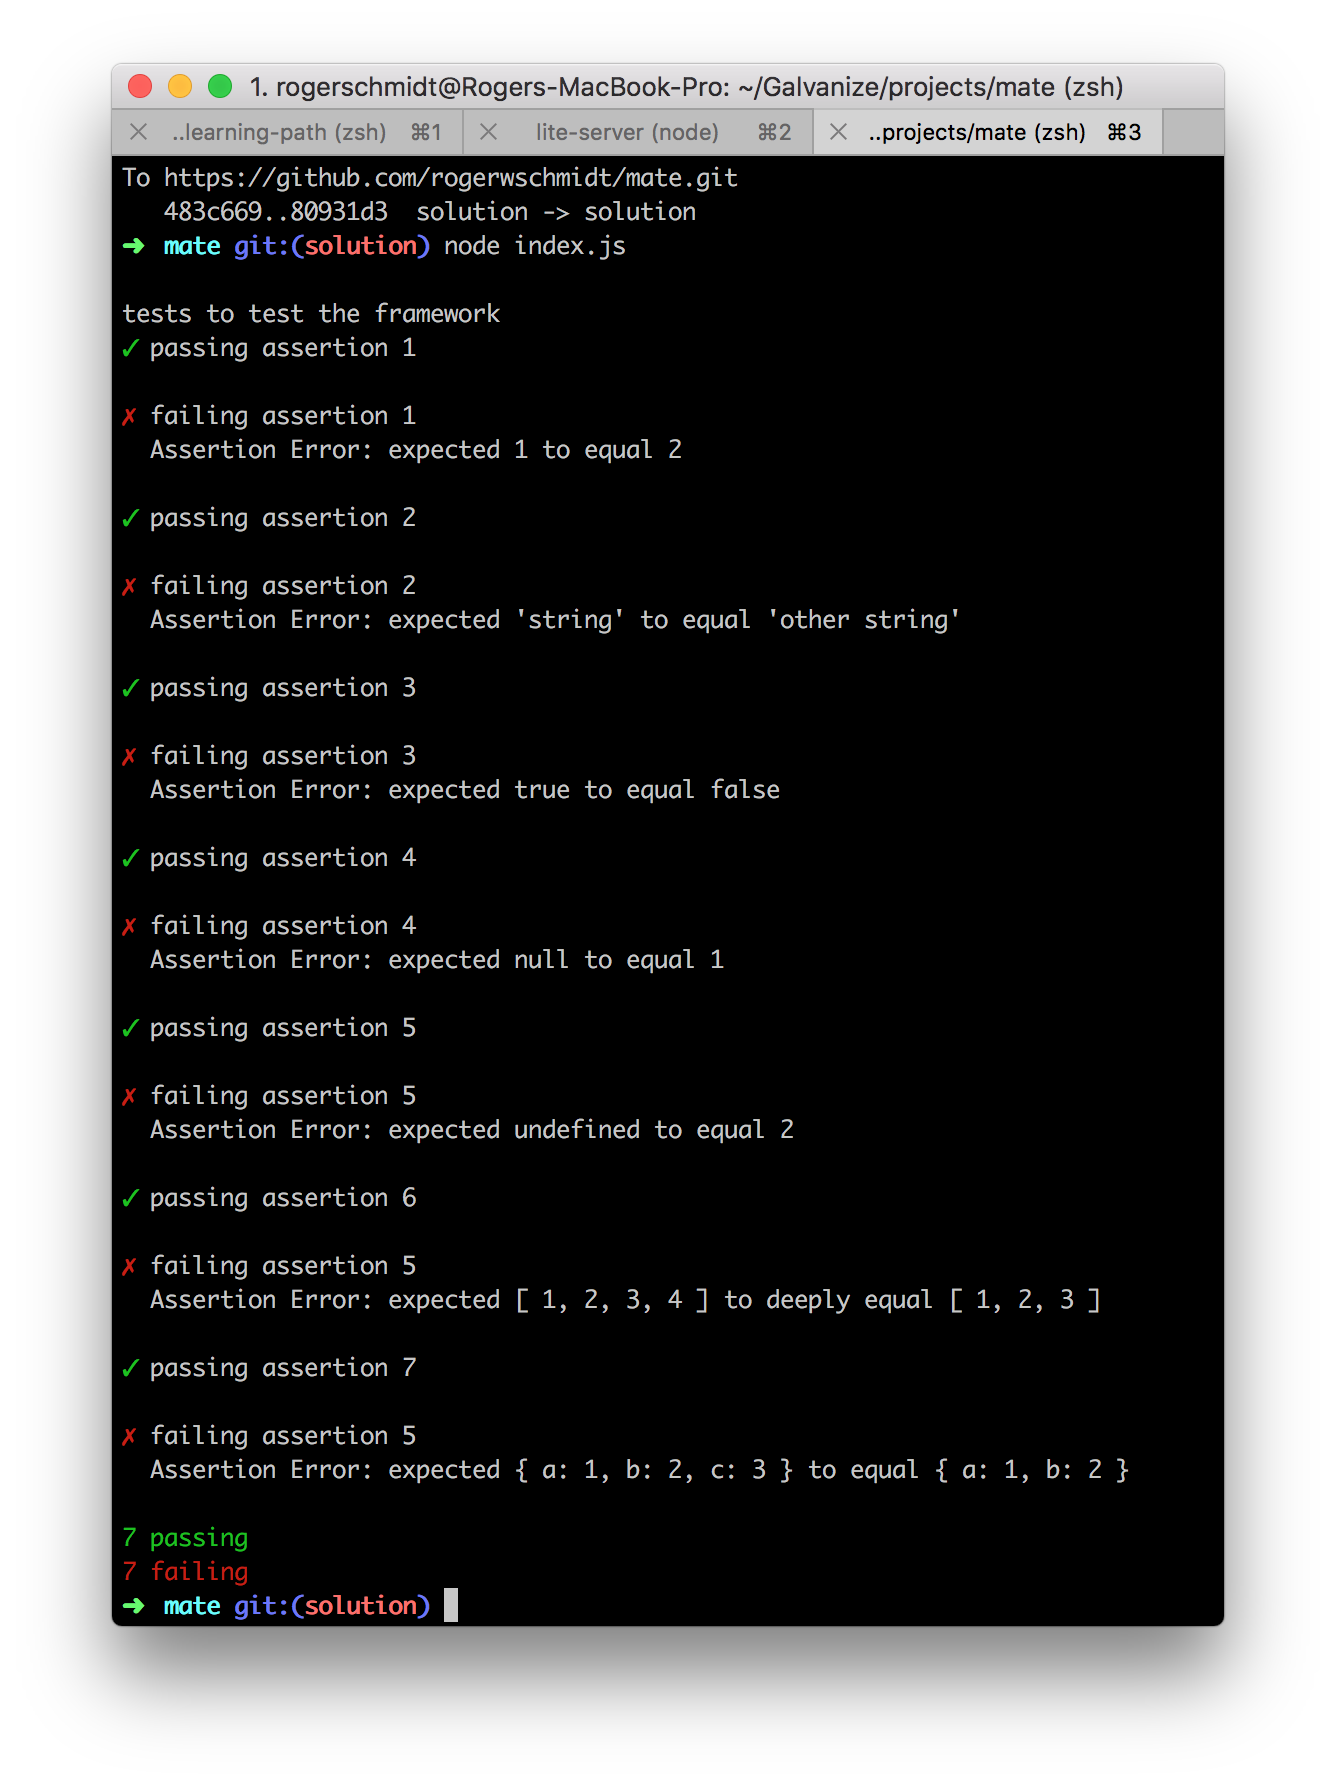
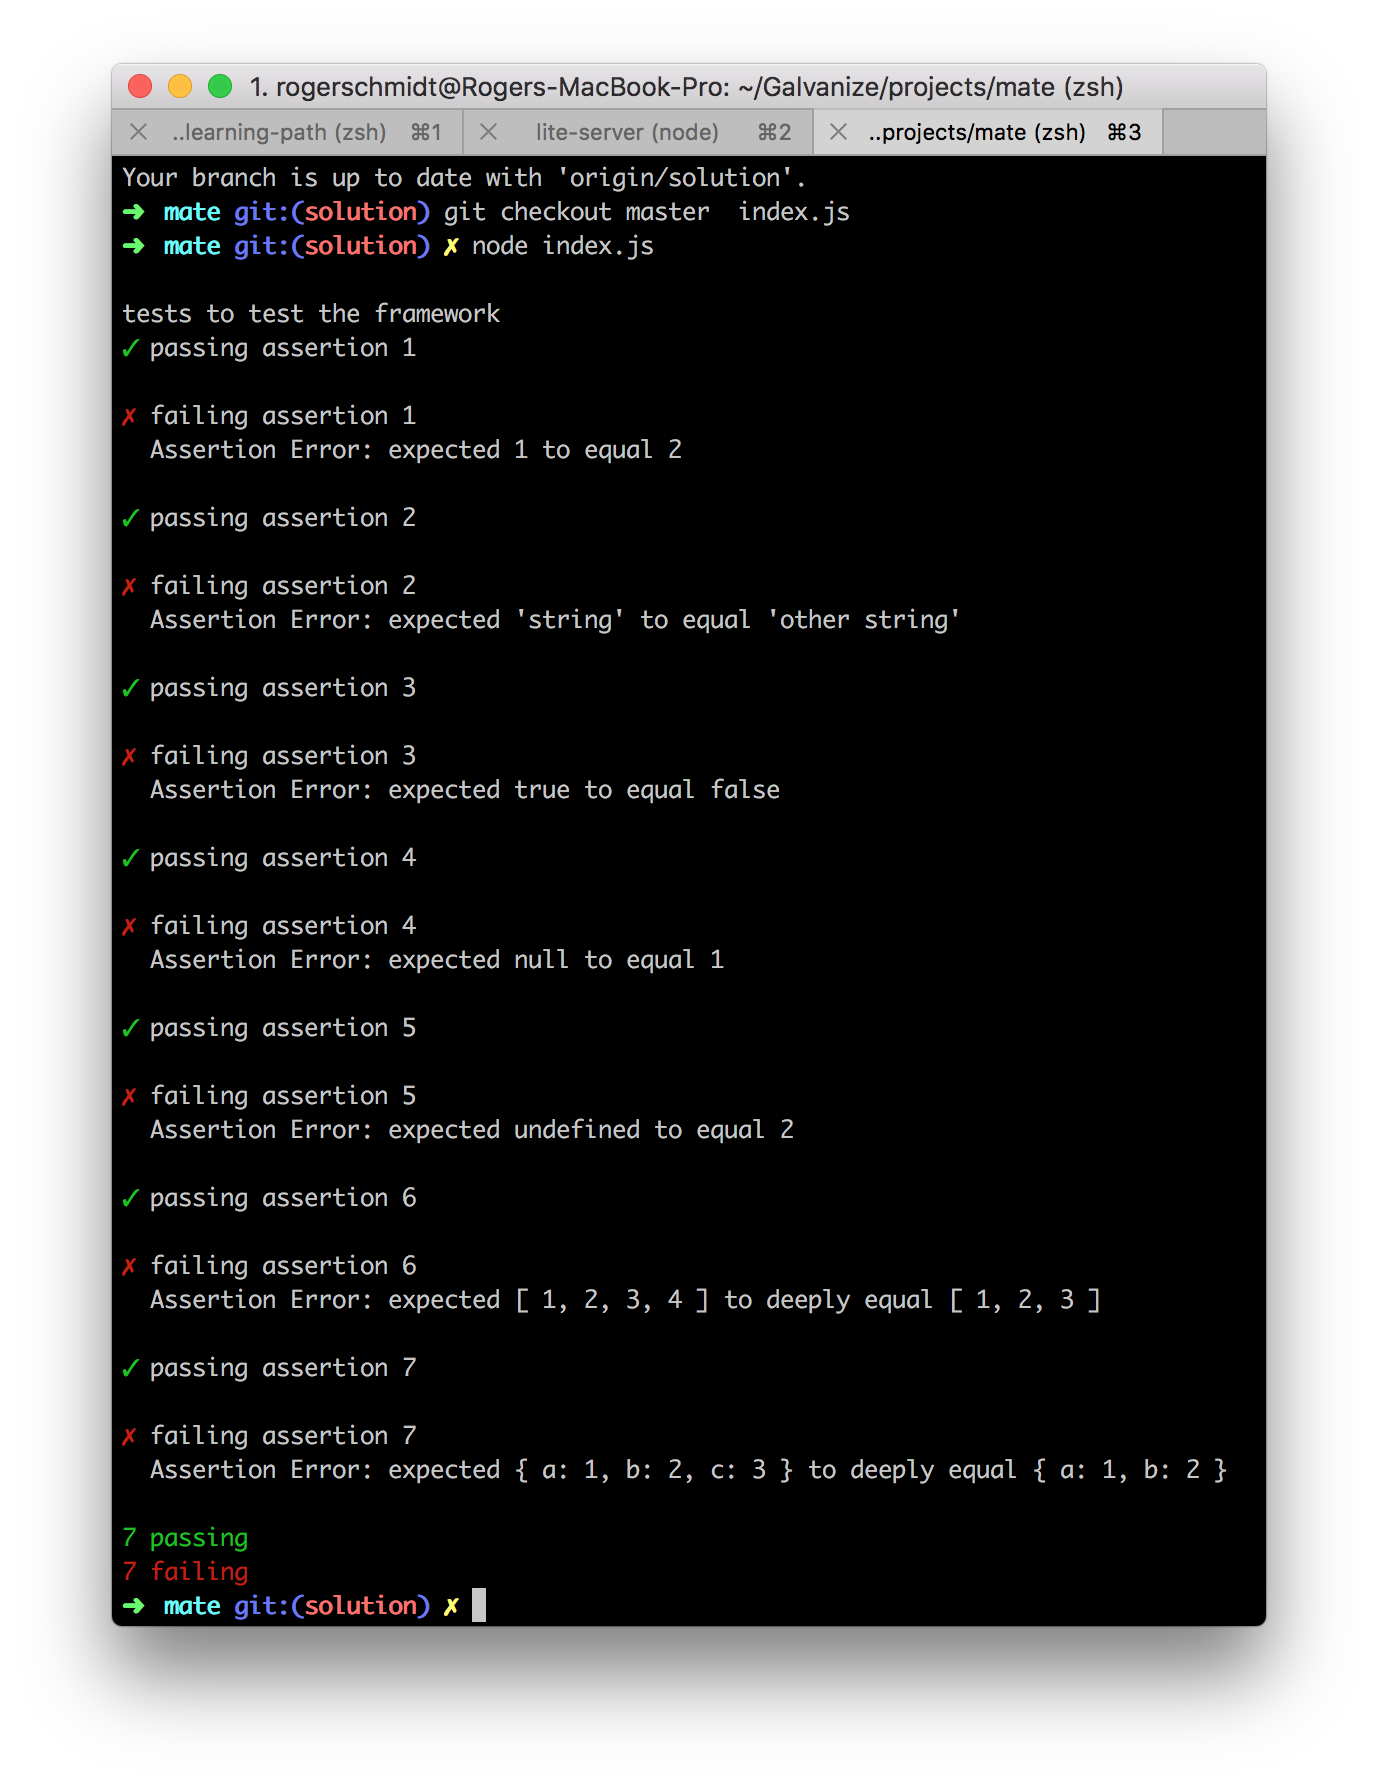
updated image

Changed region(s): [[0.0614, 0.0308, 0.9207, 0.9239]]

diff --git a/index.js b/index.js
@@ -47,7 +47,7 @@ describe('tests to test the framework', function(){
     expect([1,2,3,4]).to.eql([1,2,3,4])
   })
 
-  it('failing assertion 5', function(){
+  it('failing assertion 6', function(){
     expect([1,2,3,4]).to.eql([1,2,3])
   })
 
@@ -55,7 +55,7 @@ describe('tests to test the framework', function(){
     expect({a:1,b:2,c:3}).to.eql({a:1,b:2,c:3})
   })
 
-  it('failing assertion 5', function(){
-    expect({a:1,b:2,c:3}).to.equal({a:1,b:2})
+  it('failing assertion 7', function(){
+    expect({a:1,b:2,c:3}).to.eql({a:1,b:2})
   })
 })
